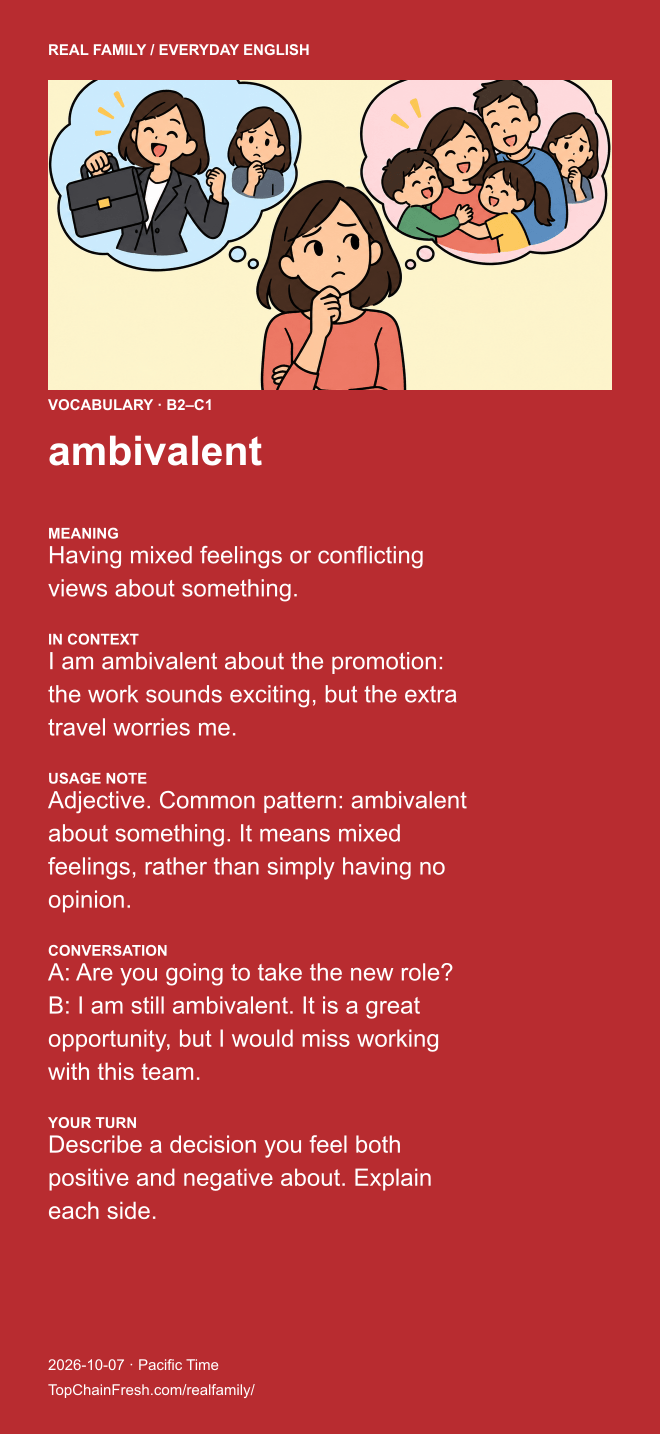
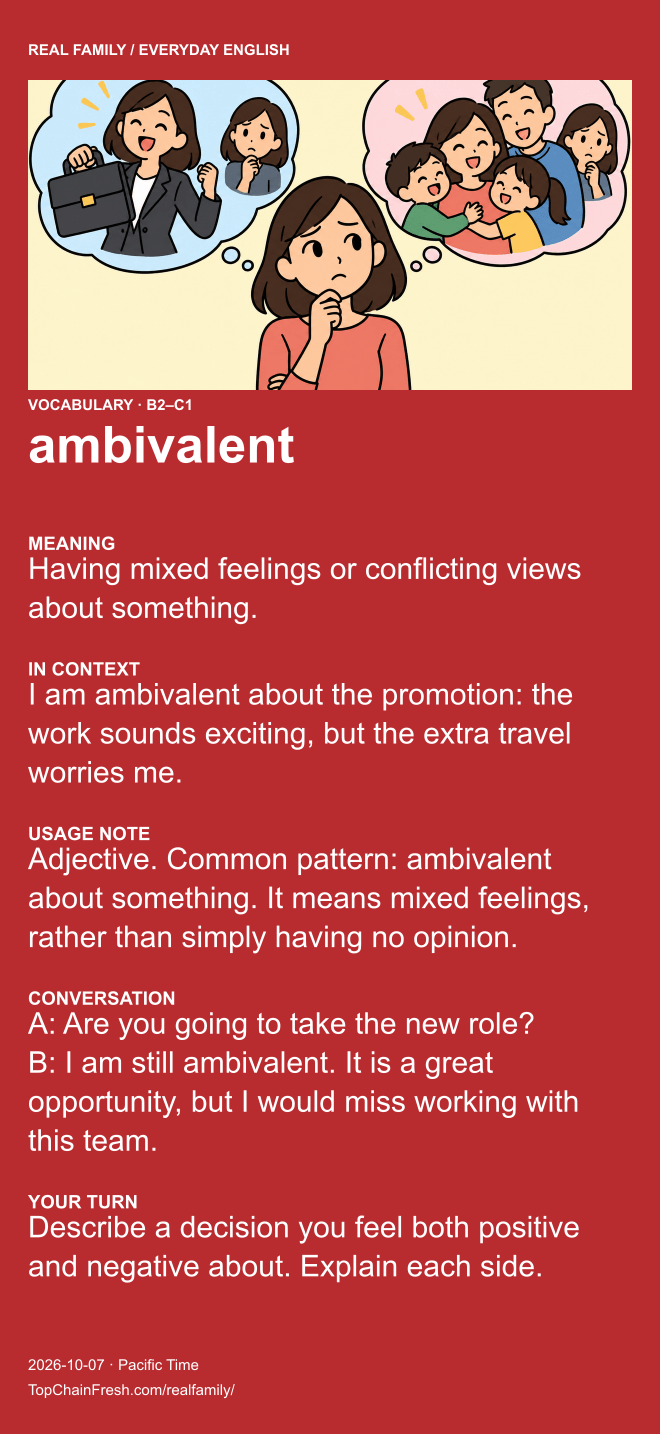
Use full card width and enlarge English lesson typography

diff --git a/reports/Real-Family-Website-Report-2026-10-07.html b/reports/Real-Family-Website-Report-2026-10-07.html
@@ -1,1 +1,1 @@
-<!doctype html><html lang="zh-Hant"><meta charset="utf-8"><meta name="viewport" content="width=device-width, initial-scale=1"><title>Real Family｜家庭網站使用與設定報告</title><style>*{box-sizing:border-box}body{margin:0;background:#f5f3ec;color:#253e36;font:18px/1.85 -apple-system,BlinkMacSystemFont,"Noto Sans TC",Arial,sans-serif}main{max-width:980px;margin:48px auto;padding:50px 60px;background:white;border-top:6px solid #284c3e;box-shadow:0 12px 40px #253e360b}h1{font-size:38px;line-height:1.4;margin:0 0 24px}h2{font-size:27px;line-height:1.5;margin:48px 0 20px;padding-top:24px;border-top:1px solid #dae0d8}h3{font-size:21px;margin:28px 0 14px}p{margin:0 0 20px}a{color:#35644e;text-underline-offset:4px}li{margin:10px 0}strong{font-weight:650}.table-scroll{overflow:auto;margin:25px 0}table{border-collapse:collapse;width:100%;font-size:16px;line-height:1.6}td,th{text-align:left;padding:14px 12px;border-bottom:1px solid #dae0d8;vertical-align:top}th{background:#edf2e9}button{font:inherit;background:#284c3e;color:white;border:0;border-radius:6px;padding:10px 22px;cursor:pointer}.toolbar{max-width:980px;margin:30px auto;display:flex;gap:16px;align-items:center;padding:0 20px;font-size:15px}.footer{color:#69796f;font-size:14px;margin-top:48px}@media(max-width:650px){main{margin:0;padding:30px 22px}h1{font-size:30px}h2{font-size:24px}body{font-size:17px}}@media print{body{background:white;font-size:11pt}main{padding:0;margin:0;max-width:none;box-shadow:none;border:0}.toolbar{display:none}h1{font-size:23pt}h2{font-size:17pt;break-after:avoid}h3{break-after:avoid}table{font-size:10pt}tr,img{break-inside:avoid}a{color:inherit}@page{size:A4;margin:18mm}}</style><div class="toolbar"><button onclick="window.print()">列印／儲存 PDF</button><span>家庭閱讀版 · October 7, 2026 · Pacific Time</span></div><main><h1>Real Family｜家庭網站使用與設定報告</h1><p><strong>版本日期：2026 年 10 月 7 日，Pacific Time（America/Los_Angeles）</strong> <strong>正式網址：<a href="https://www.topchainfresh.com/realfamily/">TopChainFresh.com/realfamily/</a></strong> 用途：供家人了解網站的內容、操作、更新方式與目前公開資料版的實際範圍。RealFamily.net 是規劃中的獨立網域，目前使用上述 TopChainFresh 子頁。</p><h2>1. 網站定位與共同原則</h2><p>Real Family 是家人共同使用的資訊與學習入口，整合世界新聞、股票市場、健康生活、食譜與英文學習。全站預設英文，內容以清楚、舒服、容易閱讀為優先；品牌不限定地域，傳達「一起成長，一起迎向未來」。</p><ul><li>共六個頁面：首頁與五個內容頁；沒有 Our Story 頁面。</li><li>首頁、左上角 R 標誌與頁尾均不出現中文姓氏，也不提及台灣家族起源或 Growing together in America。</li><li>頁尾使用 <strong>Growing together. Moving toward the future, together.</strong></li><li>台灣仍會出現在相關新聞、市場與料理分類中；這些是資訊內容，與品牌起源介紹分開。</li><li>使用暖白背景、深綠主色與清楚的字級層次；按右上角 <strong>A+</strong> 可放大閱讀版面。手機採單欄，桌面依內容採多欄。</li><li>所有更新時間明示 Pacific Time；夏令／標準時間會顯示 PDT／PST。股市交易日期與收盤時間另列當地時區，不能把各國收盤時間直接當成美國時間。</li><li>外部新聞、期刊、照片與影片提供來源連結；缺少可靠資料時保留原日期、說明缺漏，不製造數字或冒充已更新。</li></ul><h2>2. 六頁功能與更新頻率總覽</h2><div class="table-scroll"><table><thead><tr><th>頁面</th><th>主要內容</th><th>更新設定</th><th>時間／歷史紀錄</th></tr></thead><tbody><tr><td>Our home</td><td>品牌動畫與五個內容入口</td><td>品牌與版面修改時發布</td><td>頁首日期以 Pacific Time 顯示</td></tr><tr><td>World &amp; AI news</td><td>十個國家各三則新聞；十則 AI 新聞</td><td>每小時搜尋一次</td><td>新聞發布時間、成功更新時間、來源</td></tr><tr><td>Global markets</td><td>各市場指數、交易狀態、收盤後技術觀察</td><td>每小時取得公開資料</td><td>當地交易日、時區、收盤時間、Pacific Time 更新時間</td></tr><tr><td>Healthy living</td><td>十組固定健康建議與累積研究索引</td><td>每日凌晨 12:00 Pacific Time 檢查新研究</td><td>最近搜尋時間、最近新增時間、發現日期篩選</td></tr><tr><td>Family kitchen</td><td>主餐／點心、多國料理、材料、步驟與影片</td><td>每日凌晨 12:00 Pacific Time 更新當日精選</td><td>最近更新時間；完整基礎食譜持續可讀</td></tr><tr><td>Everyday English</td><td>每日十張 B2–C1 課程、專屬配圖、分享及儲存</td><td>每日凌晨 12:00 Pacific Time 啟動新課程工作</td><td>永久日期存檔、每日十張卡片與郵件</td></tr></tbody></table></div><p><strong>排程時間與成功時間不同。</strong> 頁面顯示的是資料成功更新的時間；排程、網路或來源延遲時，內容可能晚於整點出現。網頁開著時每分鐘檢查一次已發布資料，這不代表新聞每分鐘重新蒐集。</p><h2>3. 首頁：Our home</h2><p>首頁以 Real Family 動畫與簡短介紹迎接家人。五個入口直接前往新聞、市場、健康、食譜及英文，不額外增加家族故事頁。動畫支援系統的減少動態效果設定。</p><p>使用方式：點選首頁入口或上方導覽；右上角可切換語言及閱讀大小。品牌文字保持 Real Family，不隨機器翻譯改名。</p><h2>4. 新聞：World &amp; AI news</h2><h3>Hot News</h3><p>十個編輯選定的國家：美國、台灣、英國、日本、中國、印度、德國、法國、韓國、加拿大。每國最多三則目前來源可提供的新聞，合計三十則。可看全部，也可按國家篩選。</p><p>來源改為主要媒體的直接 RSS 與文章頁，包括 The Guardian、Focus Taiwan、The Indian Express、The Korea Times；逐則檢查原始發布時間與免費可讀內容。排除標示付費的文章及超出 Pacific Time 今天／昨天的內容，不使用 Google News 轉址。每則附媒體、原始發布時間與文章直連。付費政策可能改變，因此每次重新檢查。</p><h3>AI News</h3><p>最多十則 AI 報導，使用 The Guardian、TechCrunch、Ars Technica 等來源，採相同免費與日期篩選；每小時更新。</p><p><strong>目前實際範圍：</strong> 使用媒體編輯選稿與新鮮度排序。網站沒有全球討論量的量測服務，因此不能保證它們是客觀「全球最重要」或「討論最多」的排名；這一點已在頁面說明。來源失敗時只保留仍符合日期與免費核對條件的新聞；不足三則或十則時不拿舊聞補數。每小時檢查合理，沒有新稿不會製造新新聞。</p><h2>5. 股票市場：Global markets</h2><h3>顯示內容</h3><p>目前列出十四個市場：美國、中國、印度、日本、香港、加拿大、德國、韓國、瑞士、沙烏地阿拉伯、澳洲、英國、法國、台灣。香港作為獨立交易市場列出。</p><p>各市場呈現主要指數。美國包括 Dow Jones、NASDAQ Composite、S&amp;P 500、Philadelphia Semiconductor、Russell 2000。每個指數有最新每日價格、漲跌幅、當地交易日、價格狀態與資料更新時間。</p><h3>排列原則</h3><p>有可比較資料的市場，依 <strong>2025 年國內上市公司股票總市值（美元）</strong> 由高到低排列，來源為 World Bank／WFE。該資料每月檢查一次，不會拿指數點數當國家市值。</p><p>現有資料集未提供英國、法國、台灣的可比較 2025 年數值，三者保留在後方並標示未排名。這是已顯示市場內的排序，<strong>尚不能宣稱完整覆蓋全球市值前十國</strong>。多重上市與來源統計口徑也可能影響比較。</p><h3>收盤與分析規則</h3><ol><li>每小時更新行情及市場狀態，區分交易中、午休、尚未開盤、已收盤、狀態無法確認。</li><li>尚未收盤時，分析位置顯示 <strong>This market has not closed yet.</strong>，不根據未完成的當日價格分析。</li><li>收盤後，等待第一個「嚴格晚於收盤時間」的當地整點更新。例如 16:00 收盤，17:00 才可發布；15:30 收盤，16:00 才可發布。</li><li>即使時間已到，若價格資料的交易日不符合該次收盤日期，仍保留等待狀態。</li><li>已收盤且資料符合時，顯示該次價格相對 20 個交易日均線的位置及下次交易時段觀察重點。假日後的下一次交易不一定是隔天。</li></ol><p><strong>公開資料版的分析是規則式技術觀察，並非 AI 模型產生。</strong> AI 服務尚未接入；頁面明示此限制，不把現有規則改名冒充 AI。頁面保留「僅供參考，不作為投資建議」及行情可能延遲的說明。</p><h3>尚未完整提供的資料</h3><p>Google Finance 公開報價頁為主要資料來源與外連來源，已取消 Yahoo Finance。部分指數缺資料時標示 unavailable；失敗時只保留原 Google 資料並註明時間。即時報價與已核對收盤分開標示，分析須有相符交易日的 Google 每日收盤與足夠歷史，才能在收盤後下一個整點發布。每個指數「成交金額前十名成分股」需要完整成分股及實際成交金額資料，目前尚未接上可靠來源，因此保留位置並說明缺漏。不能把估算的價格乘成交量或指數本身當成已核實成交金額。</p><h2>6. 健康生活：Healthy living</h2><h3>十組基礎建議直接呈現</h3><div class="table-scroll"><table><thead><tr><th>年齡段</th><th>年齡範圍</th><th>呈現方式</th></tr></thead><tbody><tr><td>Babies</td><td>0–11 個月</td><td>女性／男性兩組</td></tr><tr><td>Children</td><td>1–9 歲</td><td>女性／男性兩組</td></tr><tr><td>Teens</td><td>10–17 歲</td><td>女性／男性兩組</td></tr><tr><td>Adults</td><td>18–64 歲</td><td>女性／男性兩組</td></tr><tr><td>Older adults</td><td>65 歲以上</td><td>女性／男性兩組</td></tr></tbody></table></div><p>十組同時列出，不需要先選年齡再選性別。已加深男女鐵需求、不同年齡鈣需求、維他命 D、B12、葉酸、補充條件與實際運動例子；數量是每日總攝取目標，不是直接建議服用的藥丸劑量。不推薦喝酒。每組分為飲食、營養補充與運動，另有該生命階段的注意事項。共通建議不會為了分男女而製造不存在的差異；月經、懷孕可能性、成長、疾病與用藥等情況會另作提示。</p><p>基礎來源包括 WHO 運動建議、CDC 嬰兒餵食、NIH ODS 營養資料。運動時間使用對應年齡的每日／每週單位；例如成人是每週 150–300 分鐘中等強度活動及每週至少兩天肌力訓練，不誤寫為每天。</p><h3>每日研究累積</h3><p>每日透過 Europe PMC 搜尋營養、運動、活動、補充品、睡眠與生命階段相關文獻。以來源網址去重；有新來源才加入，沒有新來源就維持原資料。</p><p>每筆區分「期刊原發布日期」與「網站找到它的日期」，提供期刊、文章類型與原文連結；可依發現日期瀏覽。歷史持續累積，不每天重置。</p><p>研究索引是待閱讀的資料線索，<strong>不是 AI 已完成評讀的醫療建議</strong>。不會自動用單篇研究取代固定基礎建議。本次檢查把兩筆與日常飲食、活動及睡眠範圍不符的舊搜尋結果移出主要列表，仍保留原始存檔。</p><h2>7. 家庭食譜：Family kitchen</h2><p>目前二十份基礎食譜，主餐與點心各十份。分類包括美式、歐式、日式、地中海、中國、台灣、香港、韓國、印度與季節料理；可按料理類型與主餐／點心篩選。</p><ul><li><strong>全部以六人份為基本分量</strong>，每份明列適合人數、準備時間、烹調時間。</li><li>材料採直向列表，一項一列，先食材名稱，再重量、數量或體積；手機會將份量排在易讀的位置。</li><li>步驟拆開說明處理順序、火力／溫度、時間與熟度判斷，避免只寫「煮熟」。</li><li>列出主要過敏原與廚房注意事項；肉類等適用安全熟度另有提醒。</li><li>照片附 Wikimedia Commons 的作者、來源與授權連結；使用相近料理示意時明確標示，不能保證照片就是依本頁六人份配方做出的成品。</li><li>每份最後有相似 YouTube 教學影片及搜尋備用入口。影片作為補充，份量與步驟可能不同，請以本頁六人份材料為準。</li></ul><p>每日午夜更新的是當日精選安排；完整二十份食譜持續可讀。<strong>目前不是每日自動新增二十份全新食譜的系統。</strong></p><h2>8. 每日英文：Everyday English</h2><h3>學習目標與每日配置</h3><p>程度為 B2–C1，著重自然搭配、語氣、語境與溝通；以每日少量練習逐步接近熟練使用者的表達習慣，不保證固定天數就達到母語程度。</p><div class="table-scroll"><table><thead><tr><th>類別</th><th>顏色</th><th>每日張數</th></tr></thead><tbody><tr><td>Vocabulary</td><td>紅色</td><td>2</td></tr><tr><td>Phrasal verbs</td><td>橙色</td><td>2</td></tr><tr><td>Idioms &amp; slang</td><td>黃色</td><td>2</td></tr><tr><td>Life phrases</td><td>綠色</td><td>1</td></tr><tr><td>Grammar</td><td>藍色</td><td>1</td></tr><tr><td>Quote</td><td>紫色</td><td>1</td></tr><tr><td>Small talk</td><td>黑色</td><td>1</td></tr><tr><td><strong>合計</strong></td><td>七種主題</td><td><strong>10</strong></td></tr></tbody></table></div><p>每張包含英英定義、例句、使用注意、示範對話與練習。Quote 使用原創 Real Family 短句，不把未核實的名言歸給歷史人物。</p><h3>卡片與圖片原則</h3><ul><li>每張使用符合「當天教學意思」的專屬圖片，不能只按分類套用固定圖片。</li><li>配圖延續簡單 2D 漫畫：清楚線條、平面色塊、簡化背景，避免複雜寫實風格與不必要的重做，降低生成用量。</li><li>卡片固定 <strong>110:239 的直式長寬比，使用較輕量的 660 × 1434 像素</strong>，對應 <a href="https://support.apple.com/en-us/125091">Apple 公布的 iPhone 17 Pro Max 螢幕比例</a>。比例固定，長文字在可讀範圍內調整字級，不任意加長畫布或截斷內容。</li><li>網站顯示、分享、儲存與郵件附件使用同一張完整 PNG。已移除重複的 Read &amp; practice 區塊；英文模式只顯示完整卡片，切換其他語言時改顯示翻譯文字，不重複列出。A+ 可放大版面。</li><li><strong>Listen</strong> 使用裝置／瀏覽器支援的英語語音，音色依裝置而異。</li><li><strong>Share</strong> 在支援檔案分享的手機上開啟系統分享面板；選擇已安裝的聊天 App。若瀏覽器不支援，改下載 PNG，讓使用者自行附到訊息。</li><li><strong>Save image</strong> 提供下載與圖片預覽；手機可依瀏覽器功能長按儲存。</li><li>PNG 保留英文原文；語言切換直接以翻譯文字取代英文卡片顯示，不會改寫圖片內的文字。</li></ul><h3>日期存檔、去重與郵件</h3><p>從 <strong>2026 年 10 月 7 日，Pacific Time</strong> 起建立每日可選取的正式課程紀錄。選日期會載入該日十張卡；含日期的連結可固定開啟某一天。</p><p>這不是只用三十天、三百天或固定題庫的輪播。每天新增主題，核對所有歷史標題、意思與教學重點；已發布日期保留，不隨意覆寫。發布檢查同時驗證類別數量、必填內容、唯一識別及不同圖片。標題與圖片去重由程式檢查，意義相近的教學主題仍需要產生課程時判斷，不能聲稱機器已保證百分之百語意不重複。</p><p>每日十張完整 PNG 寄至 <strong>RealFamilyPublic@gmail.com</strong>；主旨含日期及 Pacific Time，正文附該日主題與日期連結。郵件成功紀錄保留在本機，寄送前檢查避免重寄。</p><p>每日新課程、圖片與郵件使用本機 Codex 排程，<strong>執行主機必須可用並具備所需服務連線</strong>；不等於無需電腦的雲端 AI 常駐服務。新課程或圖片失敗時保留上一期真實日期並通知，不把舊卡改日期偽裝新卡。</p><h2>9. 語言、時間與家人使用方式</h2><p>右上角提供英文、繁體中文、簡體中文、日文、韓文、西班牙文。翻譯使用公開 Google 翻譯端點；外部服務失敗會提示，可切回英文。機器翻譯可能影響專有名詞與語氣，新聞／醫療／市場內容仍應對照原來源。</p><p>建議家人日常順序：看新聞摘要 → 看自己關注市場的狀態 → 按需要閱讀健康建議 → 選六人份料理 → 完成當天十張英文及練習。需要分享英文時，只在系統分享面板中自行選收件人；網站不會替訪客自動傳給聊天聯絡人。</p><p>網站目前無家庭會員登入，屬公開資訊網站。課程與研究是網站共同存檔，不是每位使用者的個人學習進度。沒有公開醫療個案、投資帳戶或 Gmail 訊息識別碼。</p><h2>10. 本次檢查與修正紀錄</h2><p>逐頁檢查了品牌文字、導覽、來源標示、日期邏輯、資料缺漏的顯示、可折疊內容、食譜分類與材料排版、英文日期選取及完整 PNG 匯出。</p><p>本次完成的修正與驗證包括：</p><ol><li>十張英文卡由固定分類插圖改為十張不同的漫畫情境圖。</li><li>十張輸出逐一驗證為 660 × 1434，保持 iPhone 螢幕比例；調整長內容字級及標題間距，修正分類文字與標題過近的問題。</li><li>分享與儲存改用已驗證的完整 PNG，與郵件附件一致；移除重複展開區，切換語言時直接顯示翻譯文字。</li><li>每日規則加入必要圖片檢查、持續歷史去重及寄件檢查，不再使用有限題庫循環。</li><li>股票分析加入交易中、收盤後等待、下一整點放行、舊交易日資料繼續等待等檢查；也測試印度的半小時時區。</li><li>健康十組同時呈現；保留研究歷史，將不符日常主題的舊結果移出主要列表。</li><li>食譜檢查二十份、全部六人份、直向材料列及二十個影片入口；保留照片出處與授權。</li><li>新聞／市場來源取得失敗時增加原資料保留提示，避免把舊數據當成剛更新。</li><li>檢查字體放大、七色分類、桌面與手機響應式規則、頁面寬度、圖片載入及頁尾品牌；測試六種語言切換及各分類張數。</li><li>修正初次載入時短暫缺圖的情況；每分鐘檢查資料若內容未變，不重新排版，減少打斷閱讀。</li><li>保留原網域、正式 /realfamily/ 路徑與舊 /real-family/ 導向；網站及資料以獨立 RealFamily 儲存庫維護，再同步正式網站。</li></ol><p><strong>檢查範圍的界線：</strong> 已檢查本次可控制的頁面與功能，不代表外部新聞來源、影片、翻譯或所有使用者手機 App 永遠可用；原生分享與語音須依裝置支援。仍未接入的金融與 AI 功能已在本報告及網站標示，不能把預留位置當成完成資料服務。</p><h2>11. 後續升級優先順序</h2><ol><li>接入授權金融資料，補齊一致口徑的全球股票市值、缺失指數及成交金額前十成分股。</li><li>接入 AI 服務後，沿用收盤後下一次每小時更新的門檻，產生有來源、條件與不確定性的分析。</li><li>若希望不依賴家中電腦，將新課程、圖片與寄信工作移至可持續運作的雲端排程；仍保留歷史及失敗通知。</li><li>擴充食譜與健康研究時，持續檢查份量、適用族群、證據品質與圖片／影片授權。</li></ol><p>本報告記錄的是目前版本的實際設定，之後功能或資料服務改變時應同步更新。</p><p class="footer">Real Family · Growing together. Moving toward the future, together.</p></main></html>
+<!doctype html><html lang="zh-Hant"><meta charset="utf-8"><meta name="viewport" content="width=device-width, initial-scale=1"><title>Real Family｜家庭網站使用與設定報告</title><style>*{box-sizing:border-box}body{margin:0;background:#f5f3ec;color:#253e36;font:18px/1.85 -apple-system,BlinkMacSystemFont,"Noto Sans TC",Arial,sans-serif}main{max-width:980px;margin:48px auto;padding:50px 60px;background:white;border-top:6px solid #284c3e;box-shadow:0 12px 40px #253e360b}h1{font-size:38px;line-height:1.4;margin:0 0 24px}h2{font-size:27px;line-height:1.5;margin:48px 0 20px;padding-top:24px;border-top:1px solid #dae0d8}h3{font-size:21px;margin:28px 0 14px}p{margin:0 0 20px}a{color:#35644e;text-underline-offset:4px}li{margin:10px 0}strong{font-weight:650}.table-scroll{overflow:auto;margin:25px 0}table{border-collapse:collapse;width:100%;font-size:16px;line-height:1.6}td,th{text-align:left;padding:14px 12px;border-bottom:1px solid #dae0d8;vertical-align:top}th{background:#edf2e9}button{font:inherit;background:#284c3e;color:white;border:0;border-radius:6px;padding:10px 22px;cursor:pointer}.toolbar{max-width:980px;margin:30px auto;display:flex;gap:16px;align-items:center;padding:0 20px;font-size:15px}.footer{color:#69796f;font-size:14px;margin-top:48px}@media(max-width:650px){main{margin:0;padding:30px 22px}h1{font-size:30px}h2{font-size:24px}body{font-size:17px}}@media print{body{background:white;font-size:11pt}main{padding:0;margin:0;max-width:none;box-shadow:none;border:0}.toolbar{display:none}h1{font-size:23pt}h2{font-size:17pt;break-after:avoid}h3{break-after:avoid}table{font-size:10pt}tr,img{break-inside:avoid}a{color:inherit}@page{size:A4;margin:18mm}}</style><div class="toolbar"><button onclick="window.print()">列印／儲存 PDF</button><span>家庭閱讀版 · October 7, 2026 · Pacific Time</span></div><main><h1>Real Family｜家庭網站使用與設定報告</h1><p><strong>版本日期：2026 年 10 月 7 日，Pacific Time（America/Los_Angeles）</strong> <strong>正式網址：<a href="https://www.topchainfresh.com/realfamily/">TopChainFresh.com/realfamily/</a></strong> 用途：供家人了解網站的內容、操作、更新方式與目前公開資料版的實際範圍。RealFamily.net 是規劃中的獨立網域，目前使用上述 TopChainFresh 子頁。</p><h2>1. 網站定位與共同原則</h2><p>Real Family 是家人共同使用的資訊與學習入口，整合世界新聞、股票市場、健康生活、食譜與英文學習。全站預設英文，內容以清楚、舒服、容易閱讀為優先；品牌不限定地域，傳達「一起成長，一起迎向未來」。</p><ul><li>共六個頁面：首頁與五個內容頁；沒有 Our Story 頁面。</li><li>首頁、左上角 R 標誌與頁尾均不出現中文姓氏，也不提及台灣家族起源或 Growing together in America。</li><li>頁尾使用 <strong>Growing together. Moving toward the future, together.</strong></li><li>台灣仍會出現在相關新聞、市場與料理分類中；這些是資訊內容，與品牌起源介紹分開。</li><li>使用暖白背景、深綠主色與清楚的字級層次；按右上角 <strong>A+</strong> 可放大閱讀版面。手機採單欄，桌面依內容採多欄。</li><li>所有更新時間明示 Pacific Time；夏令／標準時間會顯示 PDT／PST。股市交易日期與收盤時間另列當地時區，不能把各國收盤時間直接當成美國時間。</li><li>外部新聞、期刊、照片與影片提供來源連結；缺少可靠資料時保留原日期、說明缺漏，不製造數字或冒充已更新。</li></ul><h2>2. 六頁功能與更新頻率總覽</h2><div class="table-scroll"><table><thead><tr><th>頁面</th><th>主要內容</th><th>更新設定</th><th>時間／歷史紀錄</th></tr></thead><tbody><tr><td>Our home</td><td>品牌動畫與五個內容入口</td><td>品牌與版面修改時發布</td><td>頁首日期以 Pacific Time 顯示</td></tr><tr><td>World &amp; AI news</td><td>十個國家各三則新聞；十則 AI 新聞</td><td>每小時搜尋一次</td><td>新聞發布時間、成功更新時間、來源</td></tr><tr><td>Global markets</td><td>各市場指數、交易狀態、收盤後技術觀察</td><td>每小時取得公開資料</td><td>當地交易日、時區、收盤時間、Pacific Time 更新時間</td></tr><tr><td>Healthy living</td><td>十組固定健康建議與累積研究索引</td><td>每日凌晨 12:00 Pacific Time 檢查新研究</td><td>最近搜尋時間、最近新增時間、發現日期篩選</td></tr><tr><td>Family kitchen</td><td>主餐／點心、多國料理、材料、步驟與影片</td><td>每日凌晨 12:00 Pacific Time 更新當日精選</td><td>最近更新時間；完整基礎食譜持續可讀</td></tr><tr><td>Everyday English</td><td>每日十張 B2–C1 課程、專屬配圖、分享及儲存</td><td>每日凌晨 12:00 Pacific Time 啟動新課程工作</td><td>永久日期存檔、每日十張卡片與郵件</td></tr></tbody></table></div><p><strong>排程時間與成功時間不同。</strong> 頁面顯示的是資料成功更新的時間；排程、網路或來源延遲時，內容可能晚於整點出現。網頁開著時每分鐘檢查一次已發布資料，這不代表新聞每分鐘重新蒐集。</p><h2>3. 首頁：Our home</h2><p>首頁以 Real Family 動畫與簡短介紹迎接家人。五個入口直接前往新聞、市場、健康、食譜及英文，不額外增加家族故事頁。動畫支援系統的減少動態效果設定。</p><p>使用方式：點選首頁入口或上方導覽；右上角可切換語言及閱讀大小。品牌文字保持 Real Family，不隨機器翻譯改名。</p><h2>4. 新聞：World &amp; AI news</h2><h3>Hot News</h3><p>十個編輯選定的國家：美國、台灣、英國、日本、中國、印度、德國、法國、韓國、加拿大。每國最多三則目前來源可提供的新聞，合計三十則。可看全部，也可按國家篩選。</p><p>來源改為主要媒體的直接 RSS 與文章頁，包括 The Guardian、Focus Taiwan、The Indian Express、The Korea Times；逐則檢查原始發布時間與免費可讀內容。排除標示付費的文章及超出 Pacific Time 今天／昨天的內容，不使用 Google News 轉址。每則附媒體、原始發布時間與文章直連。付費政策可能改變，因此每次重新檢查。</p><h3>AI News</h3><p>最多十則 AI 報導，使用 The Guardian、TechCrunch、Ars Technica 等來源，採相同免費與日期篩選；每小時更新。</p><p><strong>目前實際範圍：</strong> 使用媒體編輯選稿與新鮮度排序。網站沒有全球討論量的量測服務，因此不能保證它們是客觀「全球最重要」或「討論最多」的排名；這一點已在頁面說明。來源失敗時只保留仍符合日期與免費核對條件的新聞；不足三則或十則時不拿舊聞補數。每小時檢查合理，沒有新稿不會製造新新聞。</p><h2>5. 股票市場：Global markets</h2><h3>顯示內容</h3><p>目前列出十四個市場：美國、中國、印度、日本、香港、加拿大、德國、韓國、瑞士、沙烏地阿拉伯、澳洲、英國、法國、台灣。香港作為獨立交易市場列出。</p><p>各市場呈現主要指數。美國包括 Dow Jones、NASDAQ Composite、S&amp;P 500、Philadelphia Semiconductor、Russell 2000。每個指數有最新每日價格、漲跌幅、當地交易日、價格狀態與資料更新時間。</p><h3>排列原則</h3><p>有可比較資料的市場，依 <strong>2025 年國內上市公司股票總市值（美元）</strong> 由高到低排列，來源為 World Bank／WFE。該資料每月檢查一次，不會拿指數點數當國家市值。</p><p>現有資料集未提供英國、法國、台灣的可比較 2025 年數值，三者保留在後方並標示未排名。這是已顯示市場內的排序，<strong>尚不能宣稱完整覆蓋全球市值前十國</strong>。多重上市與來源統計口徑也可能影響比較。</p><h3>收盤與分析規則</h3><ol><li>每小時更新行情及市場狀態，區分交易中、午休、尚未開盤、已收盤、狀態無法確認。</li><li>尚未收盤時，分析位置顯示 <strong>This market has not closed yet.</strong>，不根據未完成的當日價格分析。</li><li>收盤後，等待第一個「嚴格晚於收盤時間」的當地整點更新。例如 16:00 收盤，17:00 才可發布；15:30 收盤，16:00 才可發布。</li><li>即使時間已到，若價格資料的交易日不符合該次收盤日期，仍保留等待狀態。</li><li>已收盤且資料符合時，顯示該次價格相對 20 個交易日均線的位置及下次交易時段觀察重點。假日後的下一次交易不一定是隔天。</li></ol><p><strong>公開資料版的分析是規則式技術觀察，並非 AI 模型產生。</strong> AI 服務尚未接入；頁面明示此限制，不把現有規則改名冒充 AI。頁面保留「僅供參考，不作為投資建議」及行情可能延遲的說明。</p><h3>尚未完整提供的資料</h3><p>Google Finance 公開報價頁為主要資料來源與外連來源，已取消 Yahoo Finance。部分指數缺資料時標示 unavailable；失敗時只保留原 Google 資料並註明時間。即時報價與已核對收盤分開標示，分析須有相符交易日的 Google 每日收盤與足夠歷史，才能在收盤後下一個整點發布。每個指數「成交金額前十名成分股」需要完整成分股及實際成交金額資料，目前尚未接上可靠來源，因此保留位置並說明缺漏。不能把估算的價格乘成交量或指數本身當成已核實成交金額。</p><h2>6. 健康生活：Healthy living</h2><h3>十組基礎建議直接呈現</h3><div class="table-scroll"><table><thead><tr><th>年齡段</th><th>年齡範圍</th><th>呈現方式</th></tr></thead><tbody><tr><td>Babies</td><td>0–11 個月</td><td>女性／男性兩組</td></tr><tr><td>Children</td><td>1–9 歲</td><td>女性／男性兩組</td></tr><tr><td>Teens</td><td>10–17 歲</td><td>女性／男性兩組</td></tr><tr><td>Adults</td><td>18–64 歲</td><td>女性／男性兩組</td></tr><tr><td>Older adults</td><td>65 歲以上</td><td>女性／男性兩組</td></tr></tbody></table></div><p>十組同時列出，不需要先選年齡再選性別。已加深男女鐵需求、不同年齡鈣需求、維他命 D、B12、葉酸、補充條件與實際運動例子；數量是每日總攝取目標，不是直接建議服用的藥丸劑量。不推薦喝酒。每組分為飲食、營養補充與運動，另有該生命階段的注意事項。共通建議不會為了分男女而製造不存在的差異；月經、懷孕可能性、成長、疾病與用藥等情況會另作提示。</p><p>基礎來源包括 WHO 運動建議、CDC 嬰兒餵食、NIH ODS 營養資料。運動時間使用對應年齡的每日／每週單位；例如成人是每週 150–300 分鐘中等強度活動及每週至少兩天肌力訓練，不誤寫為每天。</p><h3>每日研究累積</h3><p>每日透過 Europe PMC 搜尋營養、運動、活動、補充品、睡眠與生命階段相關文獻。以來源網址去重；有新來源才加入，沒有新來源就維持原資料。</p><p>每筆區分「期刊原發布日期」與「網站找到它的日期」，提供期刊、文章類型與原文連結；可依發現日期瀏覽。歷史持續累積，不每天重置。</p><p>研究索引是待閱讀的資料線索，<strong>不是 AI 已完成評讀的醫療建議</strong>。不會自動用單篇研究取代固定基礎建議。本次檢查把兩筆與日常飲食、活動及睡眠範圍不符的舊搜尋結果移出主要列表，仍保留原始存檔。</p><h2>7. 家庭食譜：Family kitchen</h2><p>目前二十份基礎食譜，主餐與點心各十份。分類包括美式、歐式、日式、地中海、中國、台灣、香港、韓國、印度與季節料理；可按料理類型與主餐／點心篩選。</p><ul><li><strong>全部以六人份為基本分量</strong>，每份明列適合人數、準備時間、烹調時間。</li><li>材料採直向列表，一項一列，先食材名稱，再重量、數量或體積；手機會將份量排在易讀的位置。</li><li>步驟拆開說明處理順序、火力／溫度、時間與熟度判斷，避免只寫「煮熟」。</li><li>列出主要過敏原與廚房注意事項；肉類等適用安全熟度另有提醒。</li><li>照片附 Wikimedia Commons 的作者、來源與授權連結；使用相近料理示意時明確標示，不能保證照片就是依本頁六人份配方做出的成品。</li><li>每份最後有相似 YouTube 教學影片及搜尋備用入口。影片作為補充，份量與步驟可能不同，請以本頁六人份材料為準。</li></ul><p>每日午夜更新的是當日精選安排；完整二十份食譜持續可讀。<strong>目前不是每日自動新增二十份全新食譜的系統。</strong></p><h2>8. 每日英文：Everyday English</h2><h3>學習目標與每日配置</h3><p>程度為 B2–C1，著重自然搭配、語氣、語境與溝通；以每日少量練習逐步接近熟練使用者的表達習慣，不保證固定天數就達到母語程度。</p><div class="table-scroll"><table><thead><tr><th>類別</th><th>顏色</th><th>每日張數</th></tr></thead><tbody><tr><td>Vocabulary</td><td>紅色</td><td>2</td></tr><tr><td>Phrasal verbs</td><td>橙色</td><td>2</td></tr><tr><td>Idioms &amp; slang</td><td>黃色</td><td>2</td></tr><tr><td>Life phrases</td><td>綠色</td><td>1</td></tr><tr><td>Grammar</td><td>藍色</td><td>1</td></tr><tr><td>Quote</td><td>紫色</td><td>1</td></tr><tr><td>Small talk</td><td>黑色</td><td>1</td></tr><tr><td><strong>合計</strong></td><td>七種主題</td><td><strong>10</strong></td></tr></tbody></table></div><p>每張包含英英定義、例句、使用注意、示範對話與練習。Quote 使用原創 Real Family 短句，不把未核實的名言歸給歷史人物。</p><h3>卡片與圖片原則</h3><ul><li>每張使用符合「當天教學意思」的專屬圖片，不能只按分類套用固定圖片。</li><li>配圖延續簡單 2D 漫畫：清楚線條、平面色塊、簡化背景，避免複雜寫實風格與不必要的重做，降低生成用量。</li><li>卡片固定 <strong>110:239 的直式長寬比，使用較輕量的 660 × 1434 像素</strong>，對應 <a href="https://support.apple.com/en-us/125091">Apple 公布的 iPhone 17 Pro Max 螢幕比例</a>。比例固定，依字體的實際寬度換行，左右邊距各 28 像素，按每張內容放大字體與微調行距；不任意加長畫布或截斷內容。</li><li>網站顯示、分享、儲存與郵件附件使用同一張完整 PNG。已移除重複的 Read &amp; practice 區塊；英文模式只顯示完整卡片，切換其他語言時改顯示翻譯文字，不重複列出。A+ 可放大版面。</li><li><strong>Listen</strong> 使用裝置／瀏覽器支援的英語語音，音色依裝置而異。</li><li><strong>Share</strong> 在支援檔案分享的手機上開啟系統分享面板；選擇已安裝的聊天 App。若瀏覽器不支援，改下載 PNG，讓使用者自行附到訊息。</li><li><strong>Save image</strong> 提供下載與圖片預覽；手機可依瀏覽器功能長按儲存。</li><li>PNG 保留英文原文；語言切換直接以翻譯文字取代英文卡片顯示，不會改寫圖片內的文字。</li></ul><h3>日期存檔、去重與郵件</h3><p>從 <strong>2026 年 10 月 7 日，Pacific Time</strong> 起建立每日可選取的正式課程紀錄。選日期會載入該日十張卡；含日期的連結可固定開啟某一天。</p><p>這不是只用三十天、三百天或固定題庫的輪播。每天新增主題，核對所有歷史標題、意思與教學重點；已發布日期保留，不隨意覆寫。發布檢查同時驗證類別數量、必填內容、唯一識別及不同圖片。標題與圖片去重由程式檢查，意義相近的教學主題仍需要產生課程時判斷，不能聲稱機器已保證百分之百語意不重複。</p><p>每日十張完整 PNG 寄至 <strong>RealFamilyPublic@gmail.com</strong>；主旨含日期及 Pacific Time，正文附該日主題與日期連結。郵件成功紀錄保留在本機，寄送前檢查避免重寄。</p><p>每日新課程、圖片與郵件使用本機 Codex 排程，<strong>執行主機必須可用並具備所需服務連線</strong>；不等於無需電腦的雲端 AI 常駐服務。新課程或圖片失敗時保留上一期真實日期並通知，不把舊卡改日期偽裝新卡。</p><h2>9. 語言、時間與家人使用方式</h2><p>右上角提供英文、繁體中文、簡體中文、日文、韓文、西班牙文。翻譯使用公開 Google 翻譯端點；外部服務失敗會提示，可切回英文。機器翻譯可能影響專有名詞與語氣，新聞／醫療／市場內容仍應對照原來源。</p><p>建議家人日常順序：看新聞摘要 → 看自己關注市場的狀態 → 按需要閱讀健康建議 → 選六人份料理 → 完成當天十張英文及練習。需要分享英文時，只在系統分享面板中自行選收件人；網站不會替訪客自動傳給聊天聯絡人。</p><p>網站目前無家庭會員登入，屬公開資訊網站。課程與研究是網站共同存檔，不是每位使用者的個人學習進度。沒有公開醫療個案、投資帳戶或 Gmail 訊息識別碼。</p><h2>10. 本次檢查與修正紀錄</h2><p>逐頁檢查了品牌文字、導覽、來源標示、日期邏輯、資料缺漏的顯示、可折疊內容、食譜分類與材料排版、英文日期選取及完整 PNG 匯出。</p><p>本次完成的修正與驗證包括：</p><ol><li>十張英文卡由固定分類插圖改為十張不同的漫畫情境圖。</li><li>十張輸出逐一驗證為 660 × 1434，保持 iPhone 螢幕比例；調整長內容字級及標題間距，修正分類文字與標題過近的問題。</li><li>分享與儲存改用已驗證的完整 PNG，與郵件附件一致；移除重複展開區，切換語言時直接顯示翻譯文字。</li><li>每日規則加入必要圖片檢查、持續歷史去重及寄件檢查，不再使用有限題庫循環。</li><li>股票分析加入交易中、收盤後等待、下一整點放行、舊交易日資料繼續等待等檢查；也測試印度的半小時時區。</li><li>健康十組同時呈現；保留研究歷史，將不符日常主題的舊結果移出主要列表。</li><li>食譜檢查二十份、全部六人份、直向材料列及二十個影片入口；保留照片出處與授權。</li><li>新聞／市場來源取得失敗時增加原資料保留提示，避免把舊數據當成剛更新。</li><li>檢查字體放大、七色分類、桌面與手機響應式規則、頁面寬度、圖片載入及頁尾品牌；測試六種語言切換及各分類張數。</li><li>修正初次載入時短暫缺圖的情況；每分鐘檢查資料若內容未變，不重新排版，減少打斷閱讀。</li><li>保留原網域、正式 /realfamily/ 路徑與舊 /real-family/ 導向；網站及資料以獨立 RealFamily 儲存庫維護，再同步正式網站。</li></ol><p><strong>檢查範圍的界線：</strong> 已檢查本次可控制的頁面與功能，不代表外部新聞來源、影片、翻譯或所有使用者手機 App 永遠可用；原生分享與語音須依裝置支援。仍未接入的金融與 AI 功能已在本報告及網站標示，不能把預留位置當成完成資料服務。</p><h2>11. 後續升級優先順序</h2><ol><li>接入授權金融資料，補齊一致口徑的全球股票市值、缺失指數及成交金額前十成分股。</li><li>接入 AI 服務後，沿用收盤後下一次每小時更新的門檻，產生有來源、條件與不確定性的分析。</li><li>若希望不依賴家中電腦，將新課程、圖片與寄信工作移至可持續運作的雲端排程；仍保留歷史及失敗通知。</li><li>擴充食譜與健康研究時，持續檢查份量、適用族群、證據品質與圖片／影片授權。</li></ol><p>本報告記錄的是目前版本的實際設定，之後功能或資料服務改變時應同步更新。</p><p class="footer">Real Family · Growing together. Moving toward the future, together.</p></main></html>

diff --git a/reports/Real-Family-Website-Report-2026-10-07.md b/reports/Real-Family-Website-Report-2026-10-07.md
@@ -137,7 +137,7 @@ Google Finance 公開報價頁為主要資料來源與外連來源，已取消 Y
 
 - 每張使用符合「當天教學意思」的專屬圖片，不能只按分類套用固定圖片。
 - 配圖延續簡單 2D 漫畫：清楚線條、平面色塊、簡化背景，避免複雜寫實風格與不必要的重做，降低生成用量。
-- 卡片固定 **110:239 的直式長寬比，使用較輕量的 660 × 1434 像素**，對應 [Apple 公布的 iPhone 17 Pro Max 螢幕比例](https://support.apple.com/en-us/125091)。比例固定，長文字在可讀範圍內調整字級，不任意加長畫布或截斷內容。
+- 卡片固定 **110:239 的直式長寬比，使用較輕量的 660 × 1434 像素**，對應 [Apple 公布的 iPhone 17 Pro Max 螢幕比例](https://support.apple.com/en-us/125091)。比例固定，依字體的實際寬度換行，左右邊距各 28 像素，按每張內容放大字體與微調行距；不任意加長畫布或截斷內容。
 - 網站顯示、分享、儲存與郵件附件使用同一張完整 PNG。已移除重複的 Read & practice 區塊；英文模式只顯示完整卡片，切換其他語言時改顯示翻譯文字，不重複列出。A+ 可放大版面。
 - **Listen** 使用裝置／瀏覽器支援的英語語音，音色依裝置而異。
 - **Share** 在支援檔案分享的手機上開啟系統分享面板；選擇已安裝的聊天 App。若瀏覽器不支援，改下載 PNG，讓使用者自行附到訊息。
